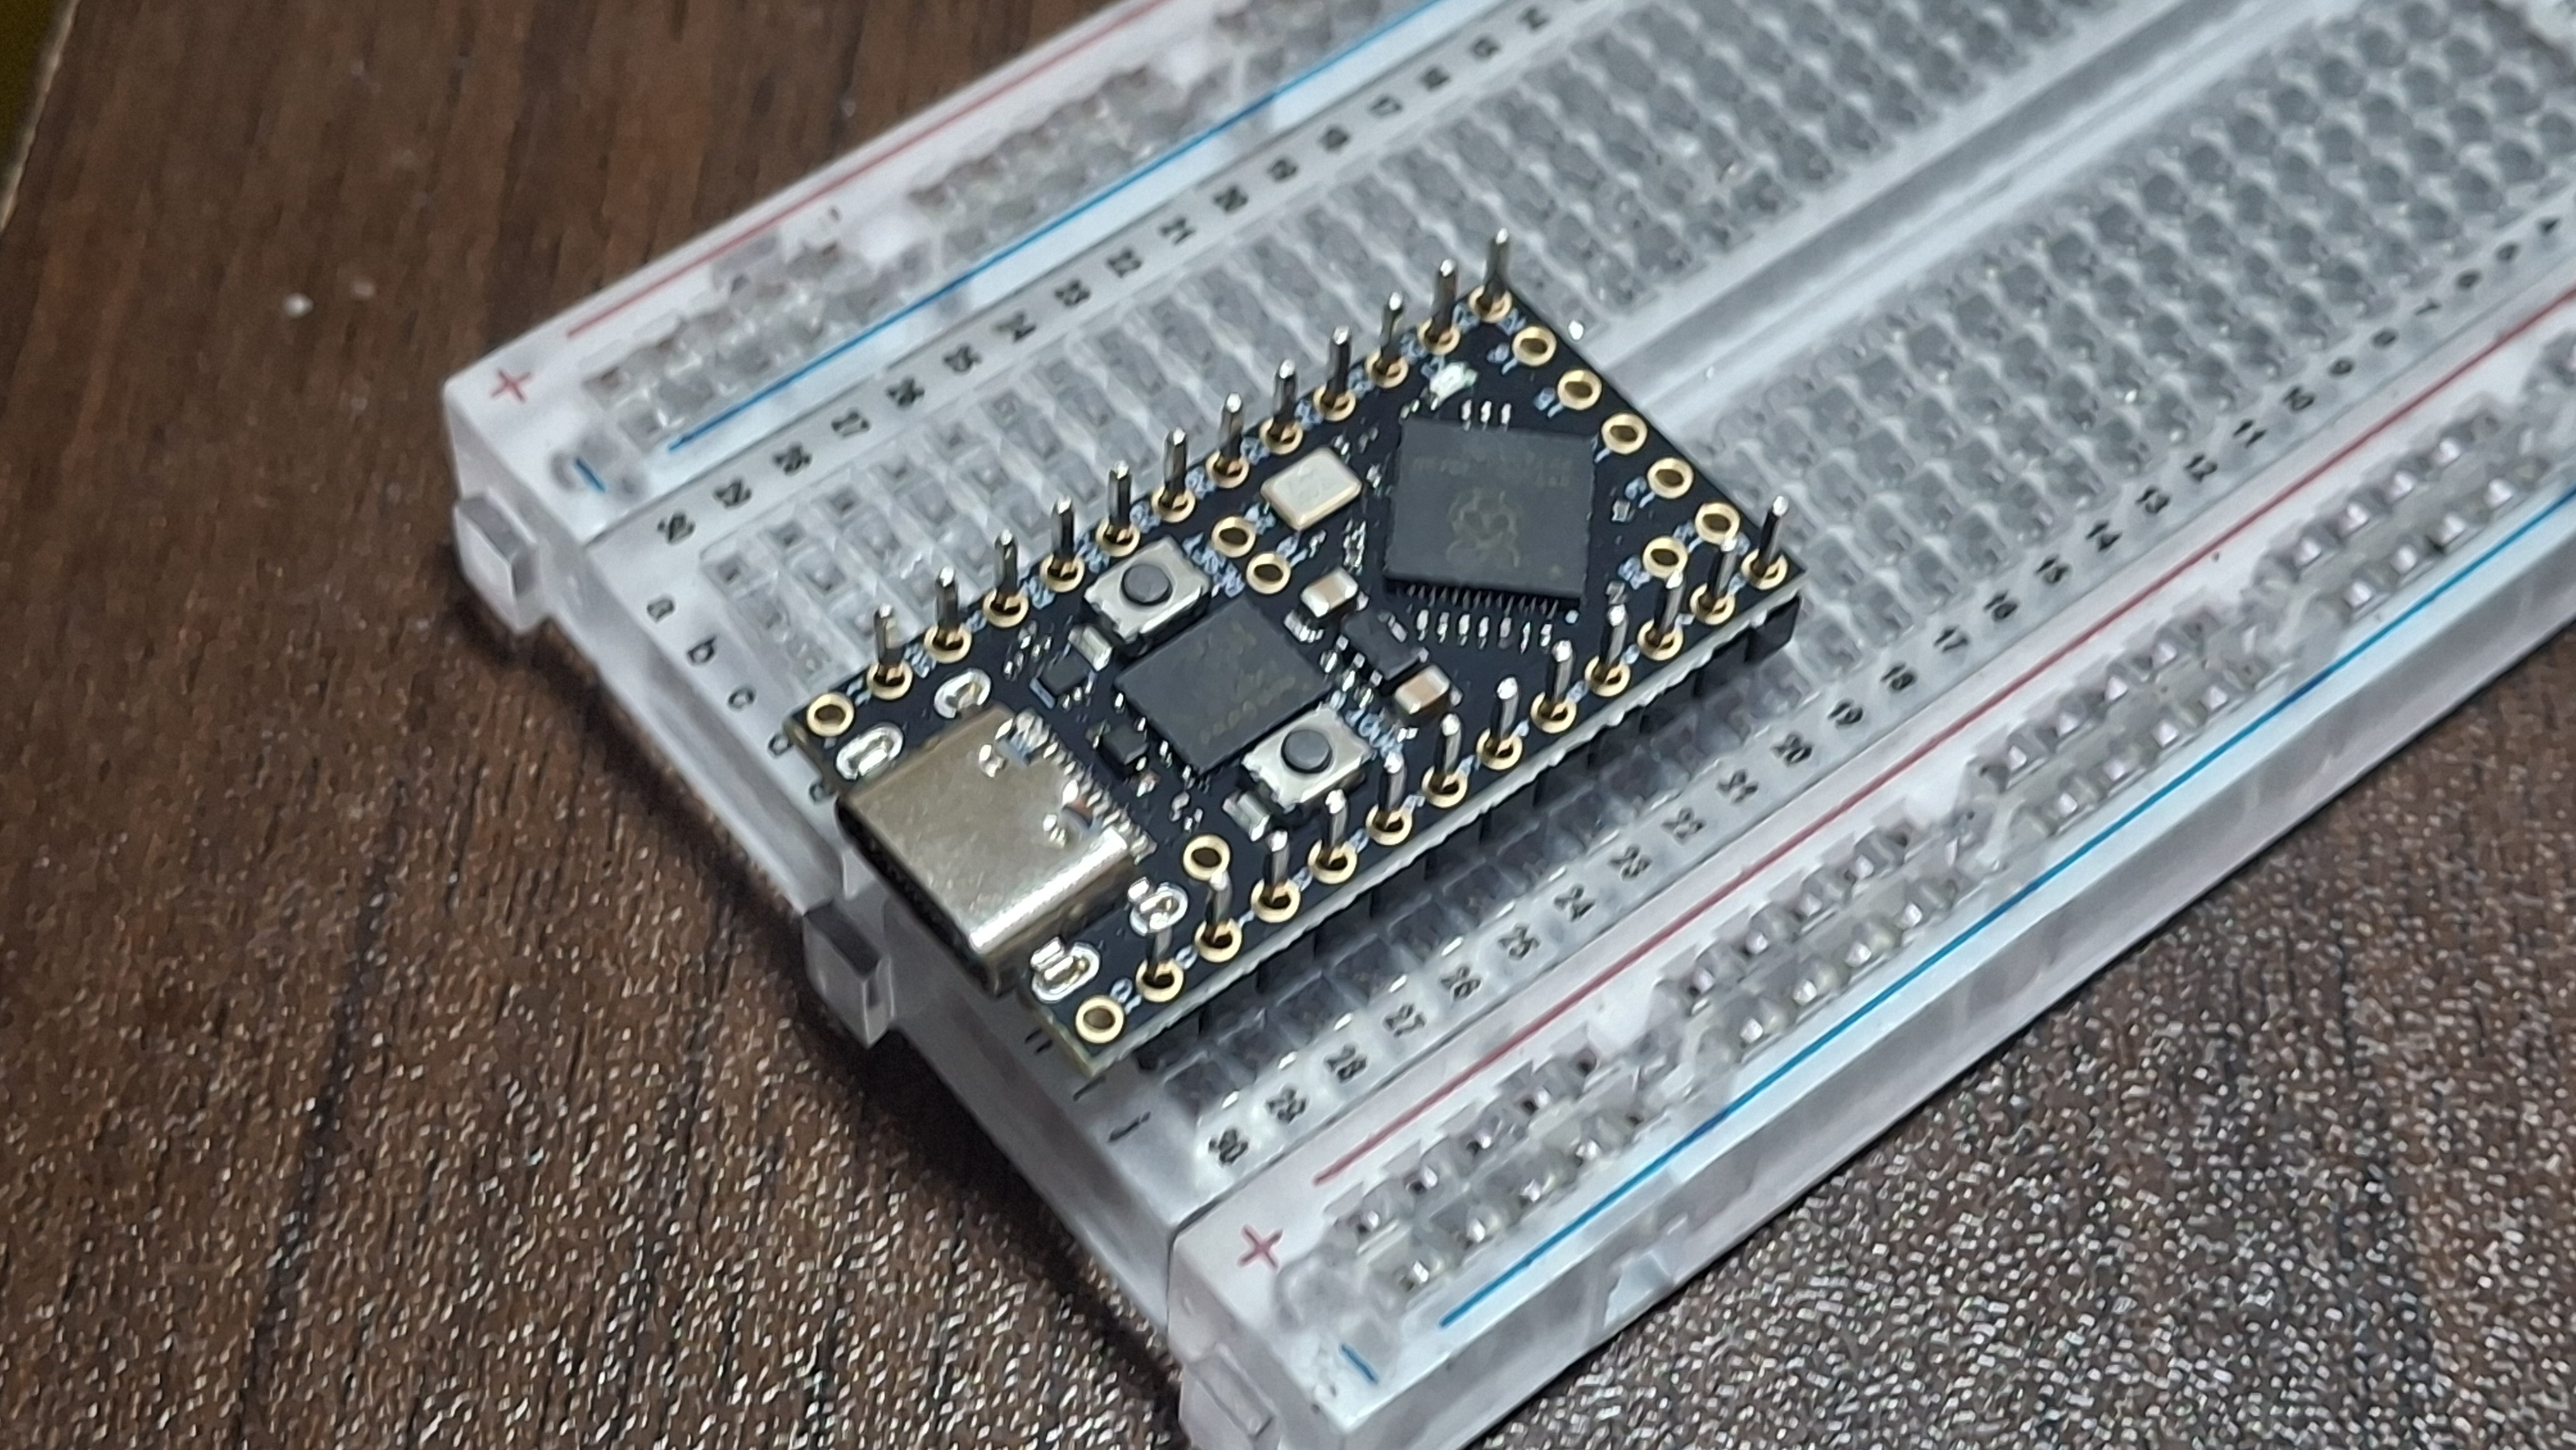
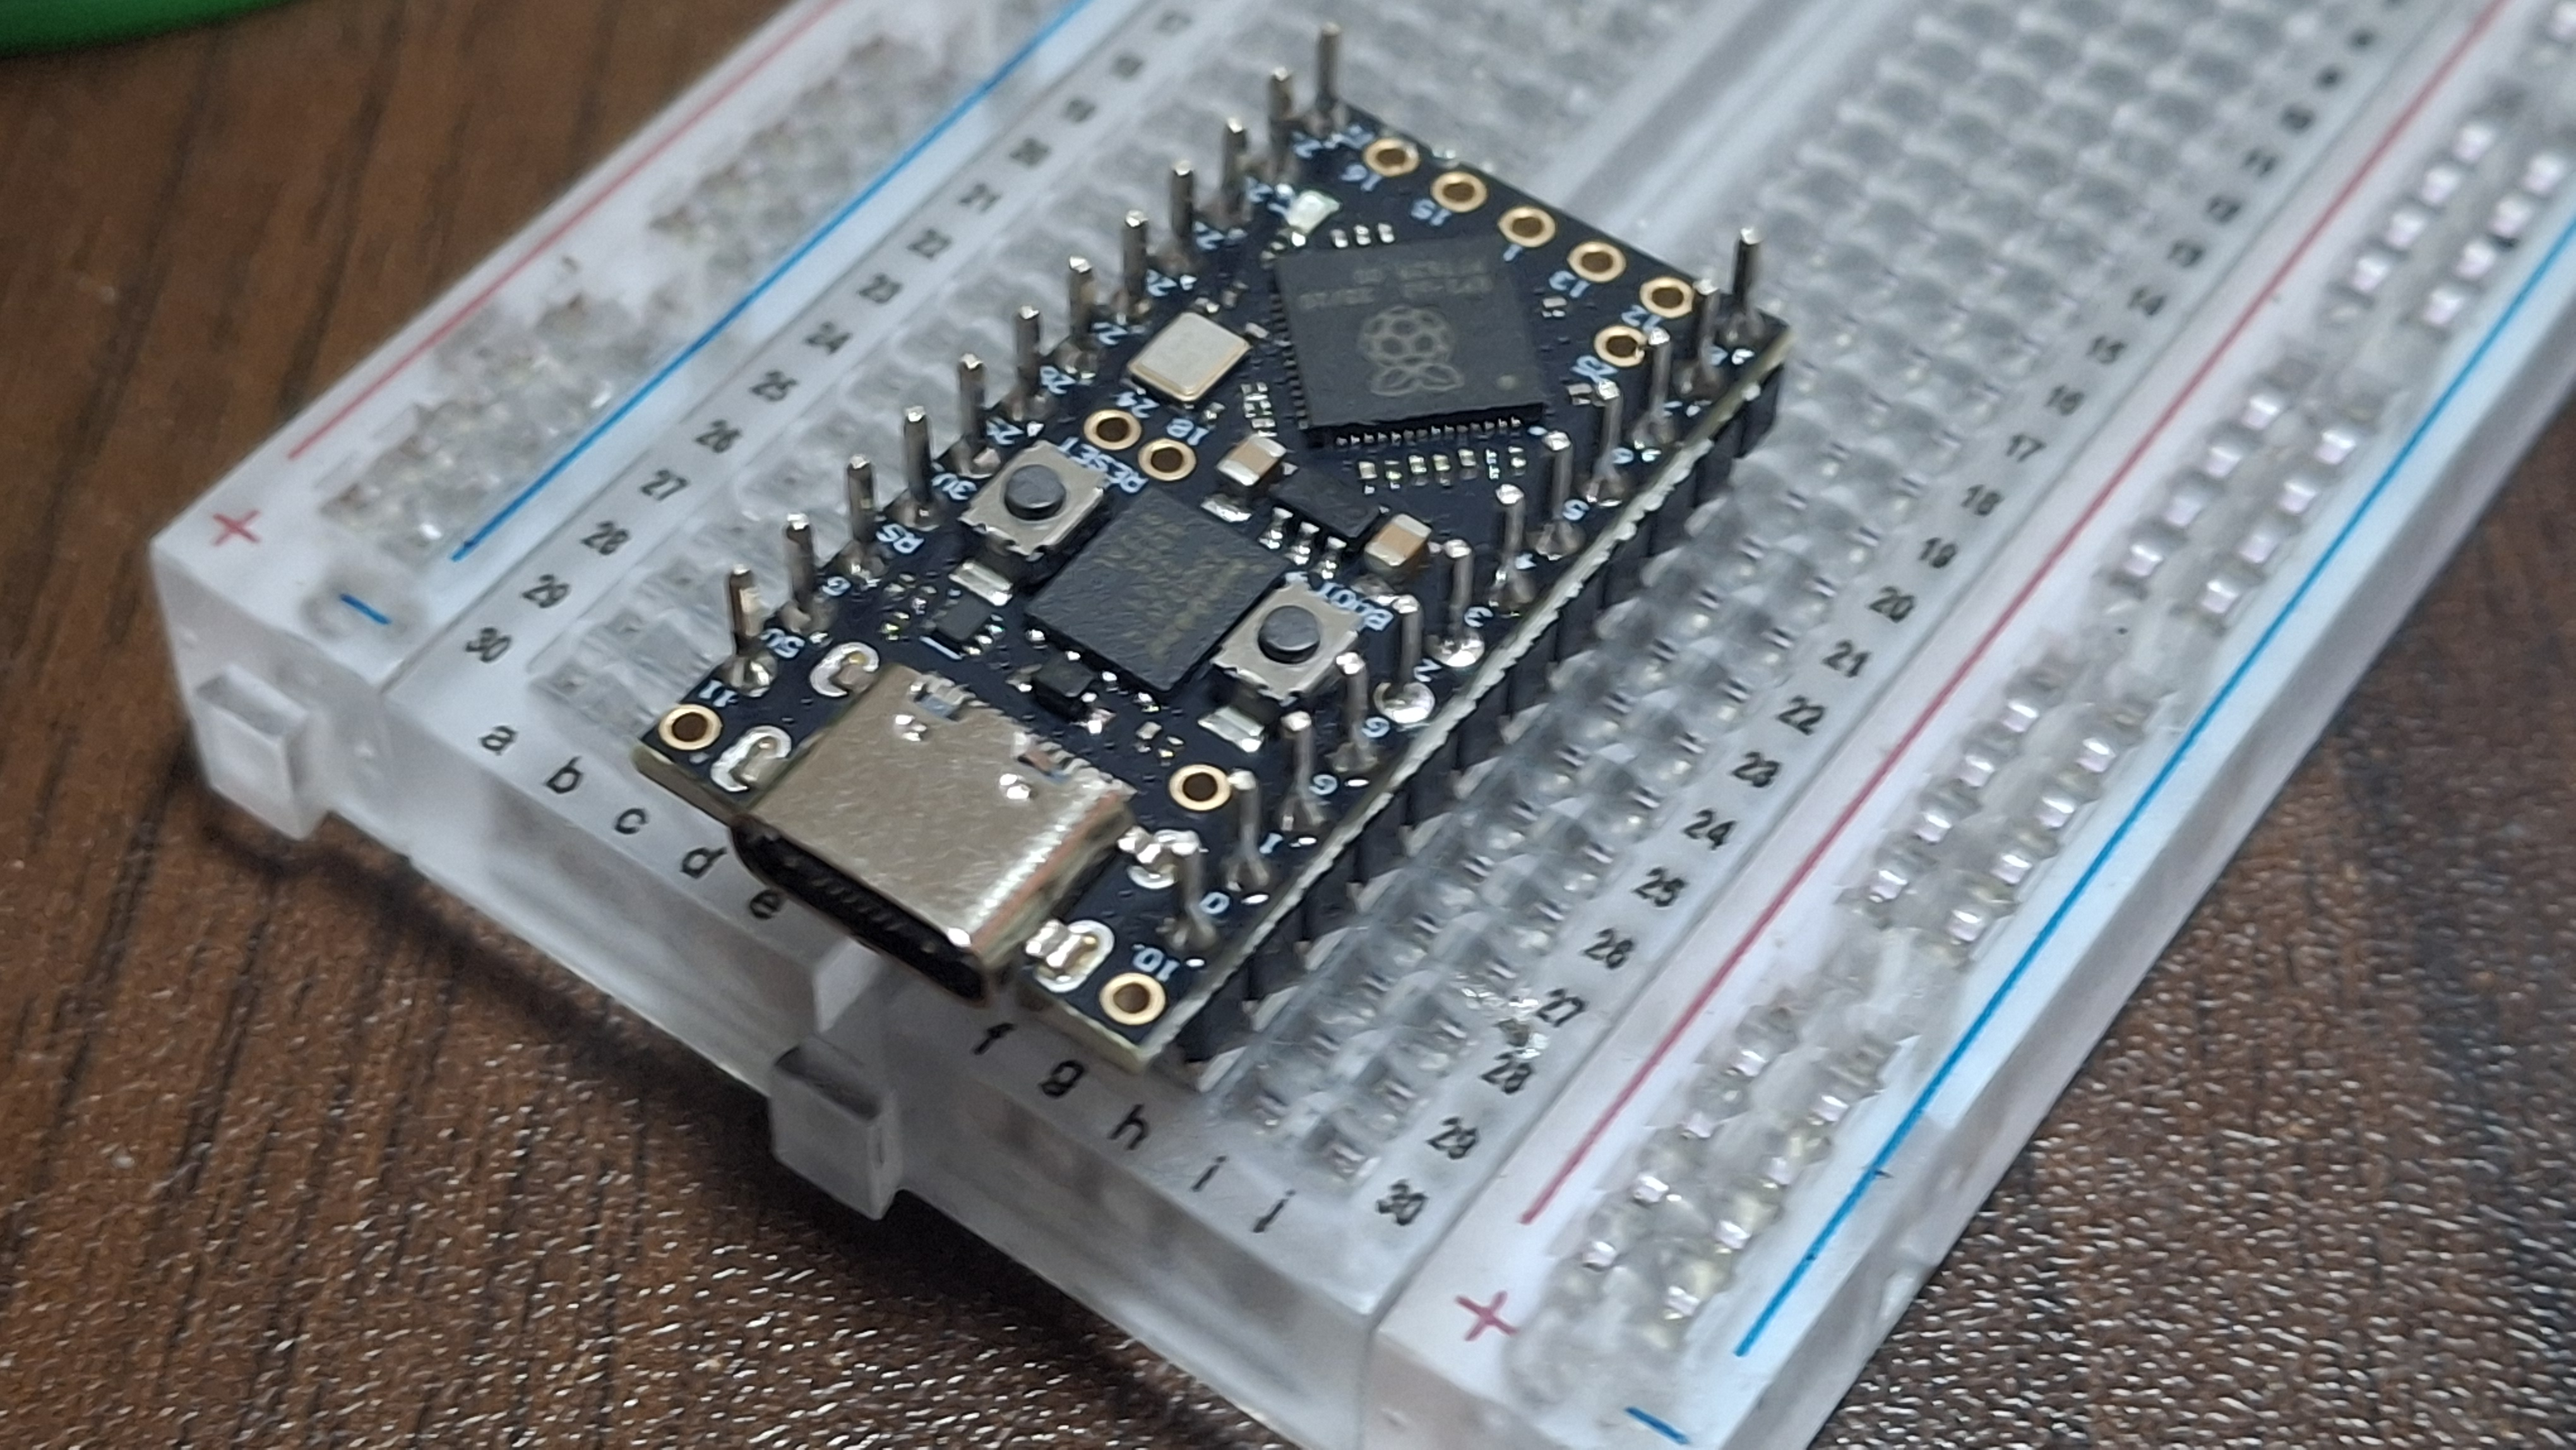
finish build guide

diff --git a/docs/buildGuide.md b/docs/buildGuide.md
@@ -1,7 +1,7 @@
 # Build Guide
 this is build guide for ilwol.
 
-the build guide contains build of prototype version. newest version have following differences:
+the build guide contains photo of prototype version. newest version have following differences:
 
 - the corner screws of outside top are moved 1u inside, so do the PCB design.
 
@@ -17,88 +17,78 @@ Prepare two PCBs for the ilwol. Since these are reversible PCBs, be careful to p
 
 The side where components will be placed is treated as the back, and the side without components is treated as the front. **All components go on back side only, so please be careful when soldering.**
 
-![ilwolbuildPCB0](../images/ilwolbuildPCB0.jpg)
-![ilwolbuildPCB1](../images/ilwolbuildPCB1.jpg)
+![ilwolPCBway2](../images/ilwolPCBway2.jpg)
 
 # Soldering the Diodes
-Solder the diodes. The builds show SMD diodes being used, but THT diodes can also be used.
+Solder the diodes. The photos show SMD diodes being used, but THT diodes can also be used.
 
-When using SMD diodes, first apply a solder blob to one side of the pad with a soldering iron, as shown in the following build.
+In the photo, the hot-swap sockets are soldered first, but I recommend soldering the diodes first.
 
-![ilwolbuildDiode0](../images/ilwolbuildDiode0.jpg)
+When using SMD diodes, first apply a solder blob to one side of the pad with a soldering iron, as shown in the following photos.
+
+![ilwolBuildDiodes1](../images/ilwolBuildDiodes1.jpg)
+![ilwolBuildDiode2](../images/ilwolBuildDiodes2.jpg)
 
 Reheat the solder blob with the iron to melt it, align the diode in the correct orientation and place it in position, then remove the iron.
 
-![ilwolbuildDiode1](../images/ilwolbuildDiode1.jpg)
+![ilwolBuildDiode3](../images/ilwolBuildDiodes3.jpg)
 
 Once it is seated properly, solder the opposite leg.
 
-![ilwolbuildDiode2](../images/ilwolbuildDiode2.jpg)
+![ilwolBuildDiode4](../images/ilwolBuildDiodes4.jpg)
 
 # Soldering the Hot-swap Sockets
 Solder the hot-swap sockets. The process is largely the same as soldering the diodes and LEDs.
 
 As before, apply a solder blob to one side of the pad, reheat the blob to melt it, place the component and hold it in position, remove the iron, then solder the opposite leg.
 
-![ilwolbuildHotswap0](../images/ilwolbuildHotswap0.jpg)
-![ilwolbuildHotswap1](../images/ilwolbuildHotswap1.jpg)
+![ilwolBuildSocket2](../images/ilwolBuildSocket2.jpg)
+![ilwolBuildSocket4](../images/ilwolBuildSocket3.jpg)
 
-# Soldering the TRRS Jack
-Refer to the following builds to identify where the TRRS jack will be placed.
+# Soldering the TRRS Jack and the Jumper
+Refer to the following photos to identify where the TRRS jack will be placed. The jack will be placed on back side, so you may solder that on front side.
 
-![ilwolbuildJack0](../images/ilwolbuildJack0.jpg)
-![ilwolbuildJack1](../images/ilwolbuildJack1.jpg)
+![ilwolBuildJack1](../images/ilwolBuildJack1.jpg)
+![ilwolBuildJack2](../images/ilwolBuildJack2.jpg)
 
-Solder the TRRS jack. When soldering the Tip and Sleeve pins, also bridge them to the adjacent pads as shown in the build.
+Solder the TRRS jack. When soldering the Tip and Sleeve pins, also bridge them to the adjacent pads as shown in the photo.
 
-![ilwolbuildJack2](../images/ilwolbuildJack2.jpg)
+And, On the front side seen when soldering the jack, bridge the jumpers located aside. Apply enough solder so that a blob forms on top.
+
+![ilwolBuildJack3](../images/ilwolBuildJack3.jpg)
 
 # Soldering the Dev Board
 First, check the header pins on the provided Pro Micro dev board. The outermost row of header pins past 5V is not needed, so trim them off.
 
-![ilwolbuildDevboard0](../images/ilwolbuildDevboard0.jpg)
-![ilwolbuildDevboard1](../images/ilwolbuildDevboard1.jpg)
+![BuildBoard0](../images/BuildBoard0.jpg)
+![BuildBoard1](../images/BuildBoard1.jpg)
 
-Insert the header pins starting from 5V, align them, and solder the dev board. When soldering, make sure the components face upward as shown in the build.
+Insert the header pins starting from 5V, align them, and solder the dev board. When soldering, make sure the components face upward as shown in the photo.
 
-![ilwolbuildDevboard2](../images/ilwolbuildDevboard2.jpg)
-![ilwolbuildDevboard3](../images/ilwolbuildDevboard3.jpg)
+![BuildBoard2](../images/BuildBoard2.jpg)
+![BuildBoard3](../images/BuildBoard3.jpg)
 
 Place the dev board with the soldered header pins on top of the already-soldered hot-swap sockets. Press down firmly to ensure a tight fit.
 
-![ilwolbuildDevboard4](../images/ilwolbuildDevboard4.jpg)
-![ilwolbuildDevboard5](../images/ilwolbuildDevboard5.jpg)
+![ilwolBuildBoard1](../images/ilwolBuildBoard1.jpg)
+![ilwolBuildBoard2](../images/ilwolBuildBoard2.jpg)
 
 Just like when soldering the TRRS jack pins, bridge the header pins to the adjacent pads as if soldering jumpers. Since a large amount of solder is used, there is a risk of bridging with flux, so be sure to clean the area with alcohol after soldering.
 
-![ilwolbuildDevboard6](../images/ilwolbuildDevboard6.jpg)
-
-# Soldering the Jumpers
-On the front side seen when soldering the dev board, bridge the jumpers located just below. Apply enough solder so that a blob forms on top.
-
-![ilwolbuildJumper0](../images/ilwolbuildJumper0.jpg)
-![ilwolbuildJumper1](../images/ilwolbuildJumper1.jpg)
+![ilwolBuildBoard4](../images/ilwolBuildBoard3.jpg)
 
 # Check before Assembly
-a finished right side of PCB looks like following images. mirror it on the left side.
+a finished right side of PCB looks like a following image.
 
-the build didn't jumped the front jumper, but you may jump there if you building wired version.
-
-![ilwolbuildPCBFinish0](../images/ilwolbuildPCBFinish0.jpg)
-![ilwolbuildPCBFinish1](../images/ilwolbuildPCBFinish1.jpg)
+![ilwolBuildAssembly](../images/ilwolBuildAssembly.jpg)
 
 # Assembly
-First, assemble the case, plate, and switches together. (Note: If you assemble the plate, switches, and PCB first, the assembly will not fit into the case.)
-The plate and case are fastened together with screws at four points.
+First, assemble plate and switches together with proper direction, and assemble PCB on it.
 
-![ilwolbuildAssembly0](../images/ilwolbuildAssembly0.jpg)
-![ilwolbuildAssembly1](../images/ilwolbuildAssembly1.jpg)
+![ilwolBuildKeyswitches1](../images/ilwolBuildKeyswitches1.jpg)
+![ilwolBuildKeyswitches2](../images/ilwolBuildKeyswitches2.jpg)
 
-Insert the protruding part of the TRRS jack into the hole in the case, then lower the PCB onto the switches to mate them together.
+Place the plate assembly over the case and fasten it with screws at eight points per side to complete the build. also, you may add four bumpons on the bottom of the case.
 
-![ilwolbuildAssembly2](../images/ilwolbuildAssembly2.jpg)
-![ilwolbuildAssembly3](../images/ilwolbuildAssembly3.jpg)
-
-Place the backplate over the case and fasten it with screws at eight points per side to complete the build.
-
-![ilwolbuildAssembly4](../images/ilwolbuildAssembly4.jpg)
+![ilwolBuildFinish1](../images/ilwolBuildFinish1.jpg)
+![ilwolBuildFinish2](../images/ilwolBuildFinish2.jpg)